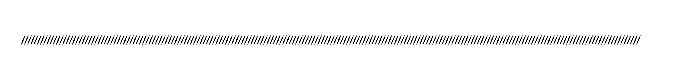
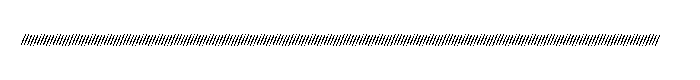
fix(core): anti_aliasing > 1.0 and full-dab feather
calligraphy.myb sets `anti_aliasing: 3.53` to bridge its 5:1-aspect
slashes into a connected stroke. Two bugs prevented that:

- stroke.rs clamped the setting to [0, 1], so 3.53 became 1.0.
- brushmodes treated the AA band as a thin ring near rr=1, which
  meant a wide feather actually *darkened* the dab interior (an inner
  reference point of rr=(1-aa_band) clamped to 0 with a tiny linear
  ramp).

Fix both: read anti_aliasing without clamping, and when the band is
non-zero re-scale rr against `aa_edge = 1 + aa_band` so the hardness
falloff stretches outward — the dab keeps its full-opacity centre and
extends to rr ≤ aa_edge with a soft tail. With aa=3.53 + radius 5.66 +
spacing 5.15 px (calligraphy's actual numbers), this closes the
2-3 px gaps the user reported zooming into the live demo.

Existing AA test still passes; the outside-pixel coverage assertion
holds since stretched-radius covers further. Snapshots regenerated.

Changed region(s): [[0.03, 0.425, 0.96, 0.575], [0.36, 0.475, 0.39, 0.5], [0.3, 0.475, 0.33, 0.5]]

diff --git a/crates/hokusai-core/src/brushmodes.rs b/crates/hokusai-core/src/brushmodes.rs
@@ -65,9 +65,11 @@ pub fn draw_dab_default<S: TiledSurface + ?Sized>(surface: &mut S, dab: &Dab) ->
     let cs = angle.cos();
     let sn = angle.sin();
     let inv_r2 = 1.0 / (radius * radius);
-    // Anti-aliasing band in rr-space (rr is r² normalized). ~1 px feather
-    // at the dab edge when `anti_aliasing` is 1.0, scaled by radius.
-    let aa_band = (dab.anti_aliasing.clamp(0.0, 1.0) * 2.0) / radius;
+    // Anti-aliasing band in rr-space (rr is r² normalized). The setting
+    // is in *pixels of feather along the major axis*; libmypaint brushes
+    // commonly use 1–4 px here, so we don't clamp the input. With aa=1
+    // the feather is ~1 px wide at radius=1.
+    let aa_band = (dab.anti_aliasing.max(0.0) * 2.0) / radius;
 
     // Conservative AABB: enlarge by aspect_ratio so the rotated ellipse fits.
     let r_ext = radius * aspect + 1.0;
@@ -185,10 +187,13 @@ fn paint_into_tile(
             if rr >= aa_edge {
                 continue;
             }
-            // Smooth the outer aa_band-wide ring linearly from full opa→0.
-            let mut opa = if aa_band > 0.0 && rr > 1.0 - aa_band {
-                let inner = opa_at((1.0 - aa_band).max(0.0), hardness);
-                inner * ((aa_edge - rr) / (2.0 * aa_band)).clamp(0.0, 1.0)
+            // With anti_aliasing > 0, stretch the hardness falloff outward
+            // so the dab extends to rr = aa_edge with a smooth fade rather
+            // than a hard cut-off at rr = 1. This is what bridges thin
+            // elliptical brushes (calligraphy's 5:1 aspect with aa=3.53)
+            // into a connected stroke instead of separate slashes.
+            let mut opa = if aa_band > 0.0 {
+                opa_at(rr / aa_edge, hardness)
             } else if rr <= 1.0 {
                 opa_at(rr, hardness)
             } else {

diff --git a/crates/hokusai-core/src/stroke.rs b/crates/hokusai-core/src/stroke.rs
@@ -397,7 +397,11 @@ fn build_dab(
         posterize: sv.get(BrushSetting::Posterize).clamp(0.0, 1.0),
         posterize_num: sv.get(BrushSetting::PosterizeNum).max(1.0),
         paint: sv.get(BrushSetting::Paint).clamp(0.0, 1.0),
-        anti_aliasing: sv.get(BrushSetting::AntiAliasing).clamp(0.0, 1.0),
+        // anti_aliasing isn't a [0, 1] mask amount in libmypaint — real
+        // brushes like calligraphy.myb set it to 3.53 and rely on the
+        // wider feather to bridge thin elliptical dabs into a connected
+        // stroke. Don't clamp here; brushmodes scales it against radius.
+        anti_aliasing: sv.get(BrushSetting::AntiAliasing).max(0.0),
     }
 }
 
